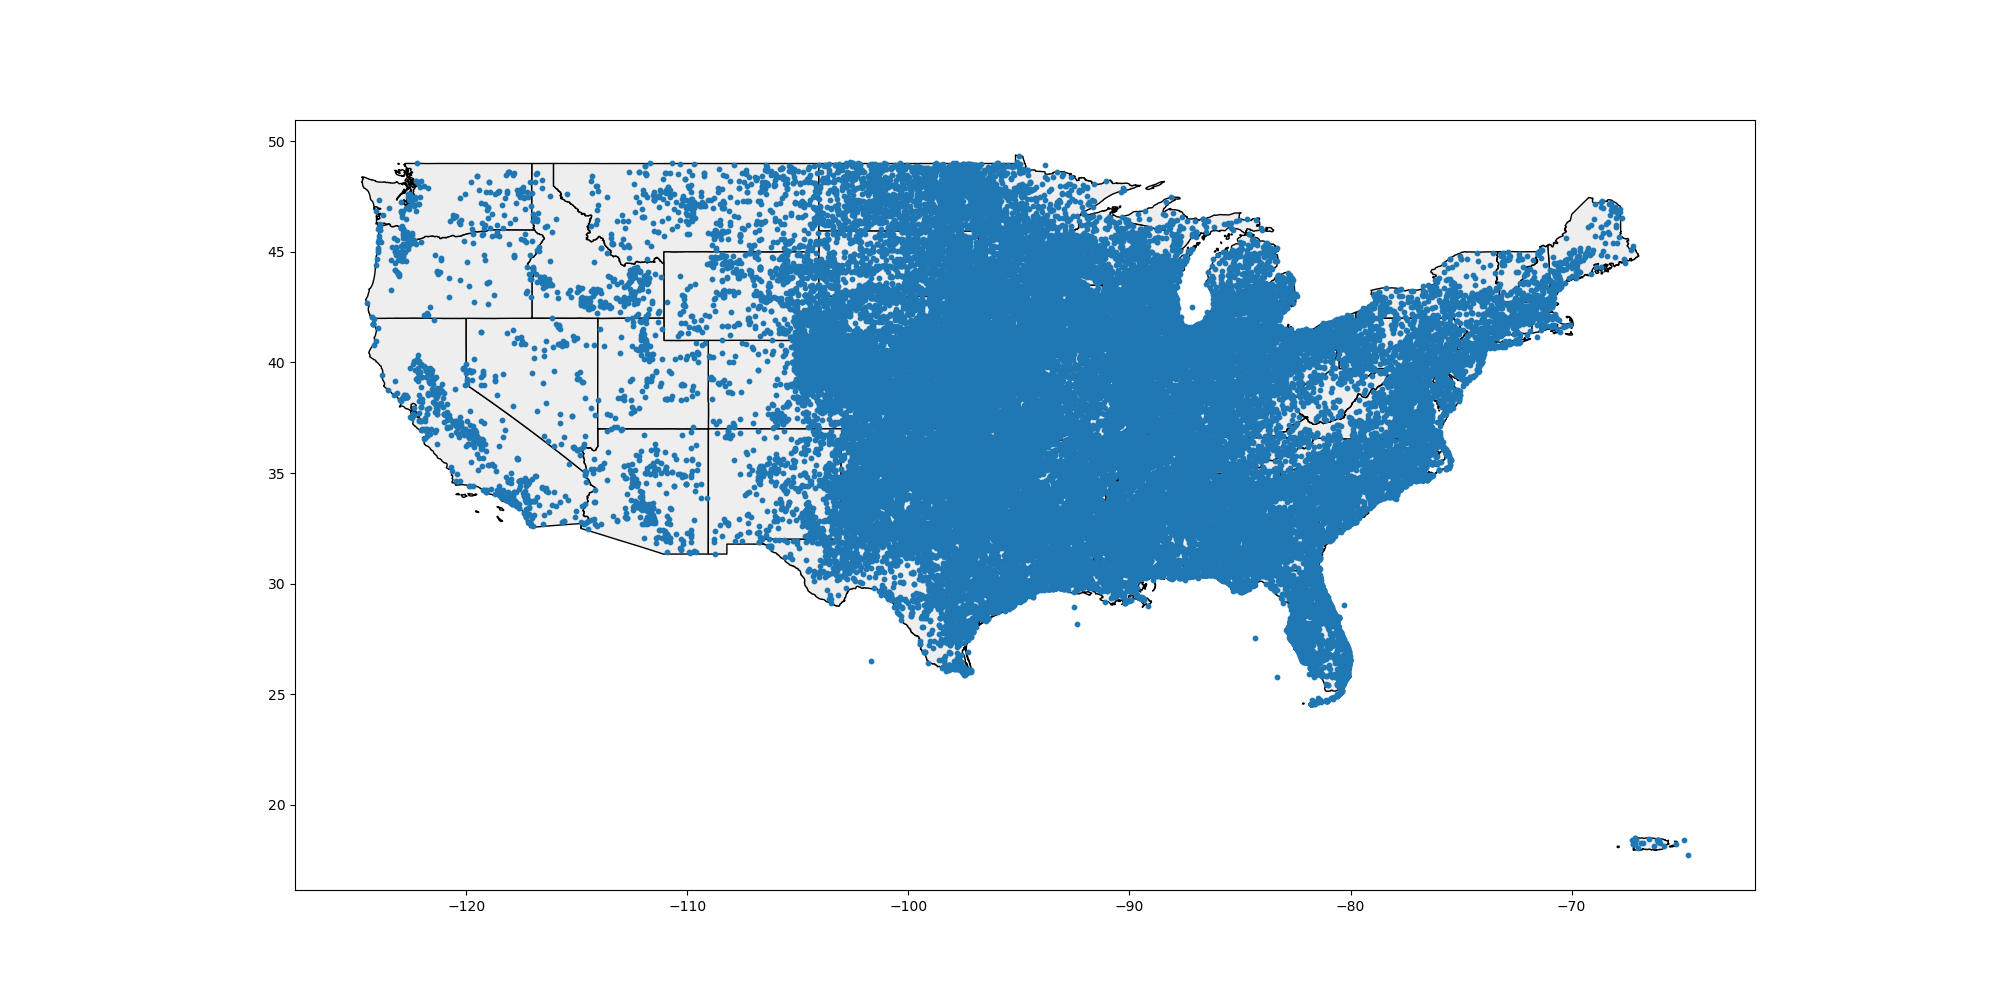
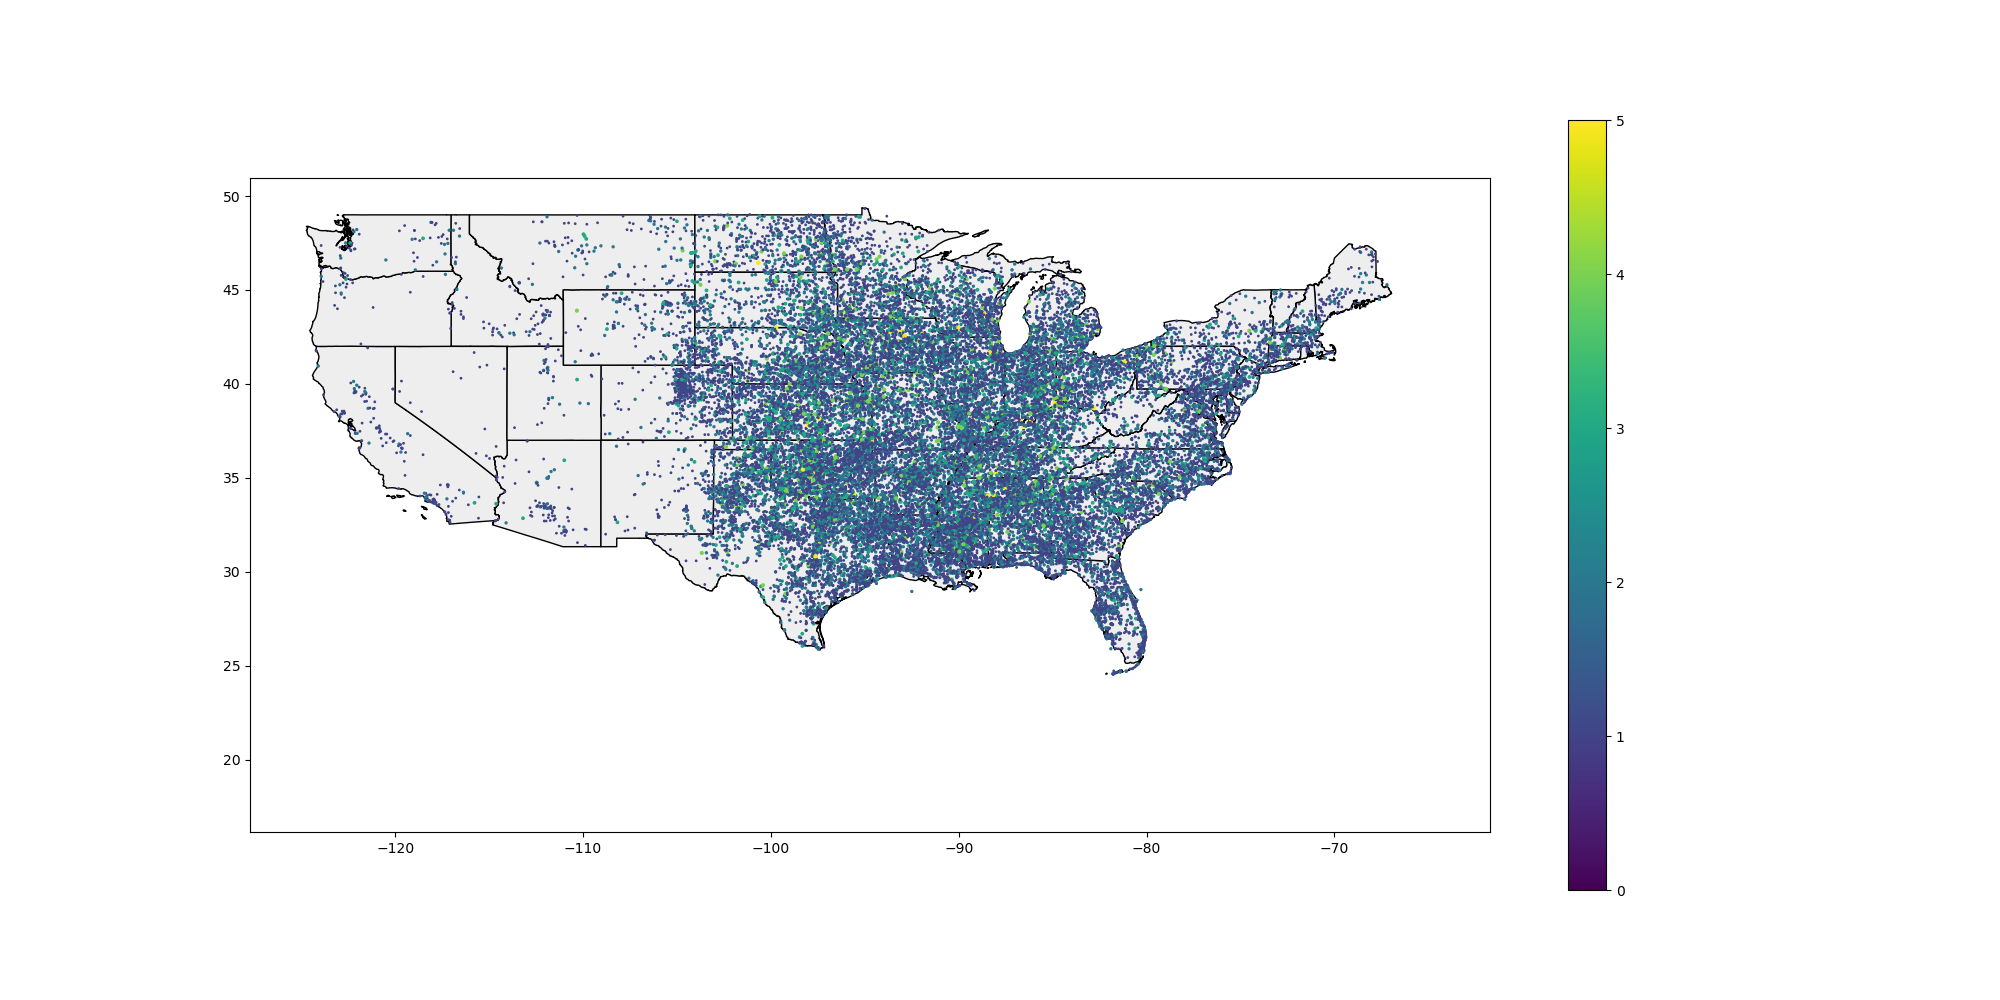
a bit of graphing

Changed region(s): [[0.155, 0.124, 0.837, 0.899]]

diff --git a/dataprocessing.py b/dataprocessing.py
@@ -3,11 +3,10 @@ import pandas as pd
 import geopandas as gpd
 from shapely.geometry import Point
 import matplotlib.pyplot as plt
-from geopy.geocoders import Nominatim
 
 
-TORNADO_FILE = '/Users/jacobmckenney/Desktop/cs/cse163/project/tornado-analysis/data/1950-2020_all_tornadoes.csv'
-STATE_FILE = 'tornado-analysis/data/gz_2010_us_040_00_5m.json'
+TORNADO_FILE = 'data/1950-2020_all_tornadoes.csv'
+STATE_FILE = 'data/gz_2010_us_040_00_5m.json'
 API_KEY = 'd3687e22fcd51ce480482a5caa07e0ae239c77a5'
 ALL_VALID_YEARS = [x for x in range(2009, 2020)]
 
@@ -55,7 +54,7 @@ def tornado_census_by_year(years, tornadoes: pd.DataFrame) -> pd.DataFrame:
         print(year)
     return result
 
-def import_tornado_data(hawaii=False, alaska=False, add_geometries=True):
+def import_tornado_data(hawaii=False, alaska=False, puerto_rico=False, add_geometries=True):
     data = pd.read_csv(TORNADO_FILE)
     data['stf'] = data['stf'].apply(lambda x: int(x))
     data['f1'] = data['f1'].apply(lambda x: int(x))
@@ -65,6 +64,8 @@ def import_tornado_data(hawaii=False, alaska=False, add_geometries=True):
         data = data[data['stf'] != 15]
     if not alaska:
         data = data[data['stf'] != 2]
+    if not puerto_rico:
+        data = data[data['stf'] != 72]
     if add_geometries:
         add_start_end_points(data)
     return data
@@ -72,7 +73,7 @@ def import_tornado_data(hawaii=False, alaska=False, add_geometries=True):
 
 def import_state_geometries() -> gpd.GeoDataFrame:
     states = gpd.read_file(STATE_FILE)
-    states = states[(states['NAME'] != 'Alaska') & (states['NAME'] != 'Hawaii')]
+    states = states[(states['NAME'] != 'Alaska') & (states['NAME'] != 'Hawaii') & (states['NAME'] != 'Puerto Rico')]
     return states
 
 def add_start_end_points(df):
@@ -90,8 +91,8 @@ def get_processed_data():
     states.plot(ax=ax, color="#EEEEEE", edgecolor='black')
 
     geo_tornadoes = gpd.GeoDataFrame(data=tornadoes, geometry='start_point')
-    geo_tornadoes.plot(ax=ax, markersize=10)
-    plt.savefig('tornado-analysis/figures/testing.png')
+    geo_tornadoes.plot(ax=ax, column='mag', legend=True, markersize=tornadoes['mag'], vmin=0, vmax=5)
+    plt.savefig('figures/testing.png')
 
 
 def main():
